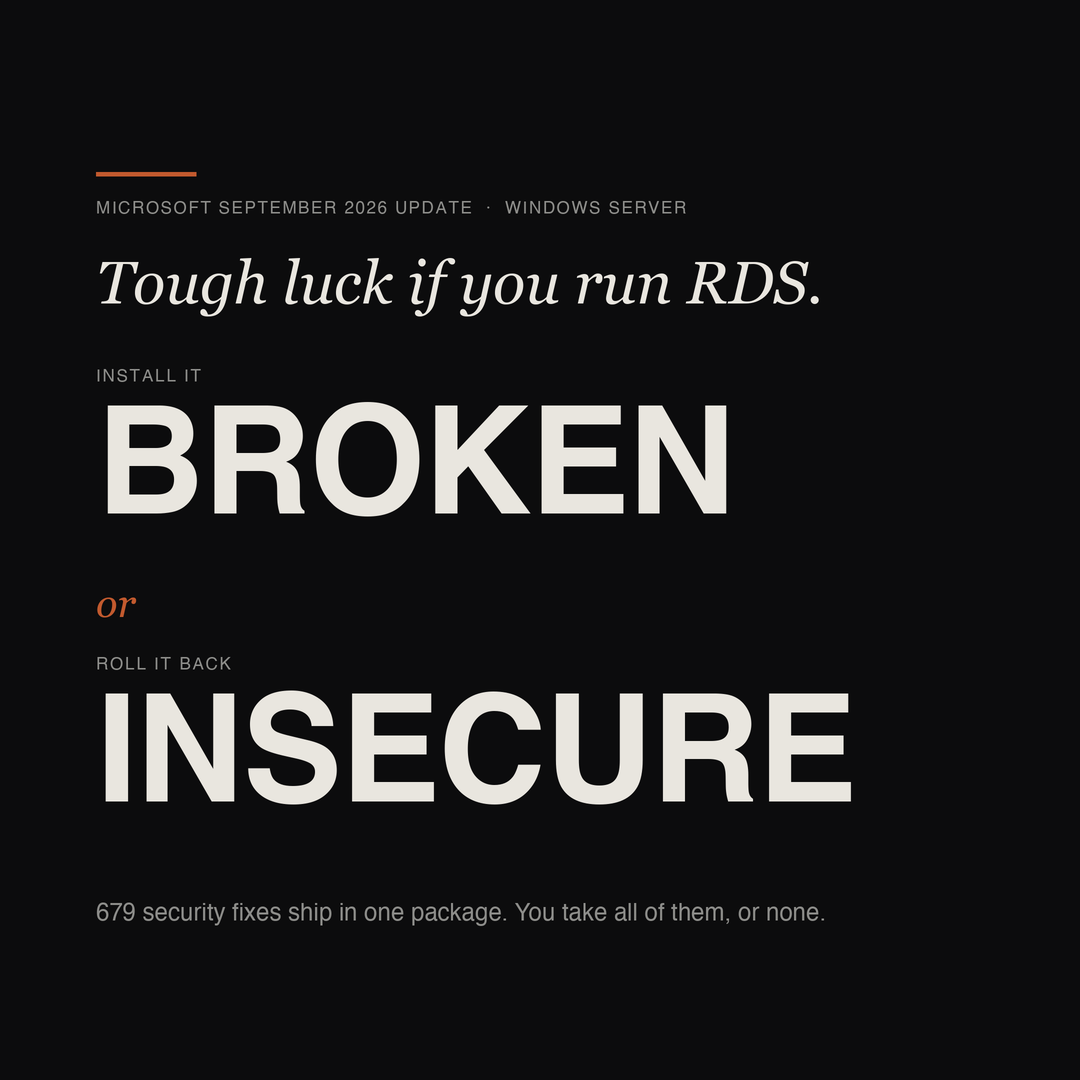
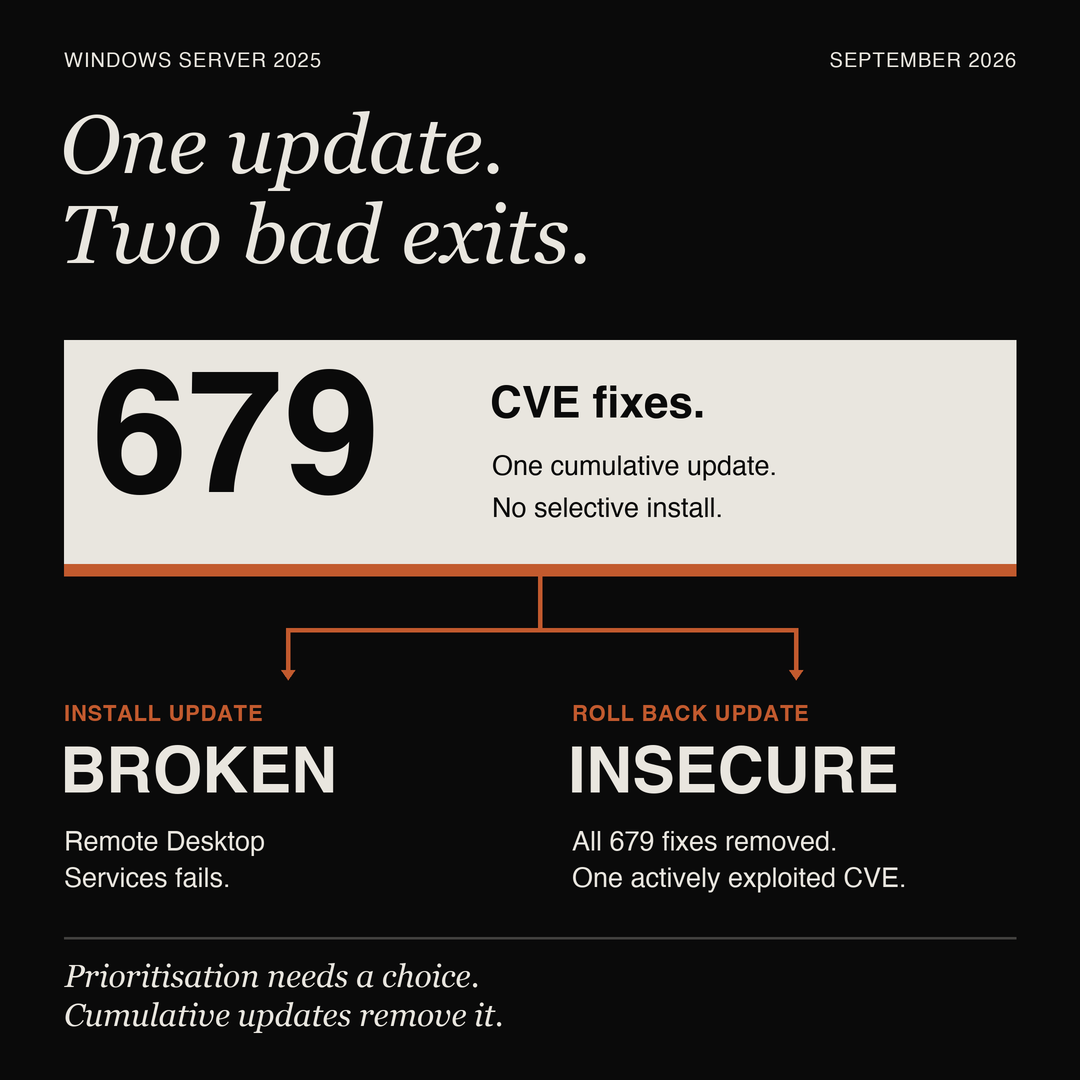
Redesign the LinkedIn card: one sealed package, two bad exits

diff --git a/social/linkedin/build/build-creative.py b/social/linkedin/build/build-creative.py
@@ -2,31 +2,38 @@
 """
 Render the LinkedIn creative for "You can't triage a bundle" at 1080x1080 PNG.
 
-Scroll-stopper, not a document. One sentence and two words, at a size that
-lands before anyone has decided whether to read. Everything that qualifies,
-sources or attributes the claim lives in the post copy and the article — an
-earlier version carried footnotes and an attribution line on the card itself
-and that is exactly the wrong instinct for a feed: nobody reads a card.
+Concept: ONE SEALED PACKAGE, TWO BAD EXITS.
 
-Deliberately absent, do not add back:
-  * asterisks and footnotes
-  * the hupfauer.one attribution line
-  * any decorative corner mark
+A single uninterrupted bone block holds 679 and states that it cannot be
+subdivided. A rust fork leaves the block and splits into two consequences drawn
+with identical weight, because neither option is the safe one. The composition
+*is* the argument: the reader should understand the trap before reading the
+thesis line at the foot.
 
-The one supporting line at the foot is the whole argument compressed, and it
-is the only thing on the card allowed to be small.
+Art direction from a senior art director (gpt-6-astra). The useful part was the
+diagnosis of the previous attempt: it named the dilemma without designing the
+mechanism that causes it, so "BROKEN / or / INSECURE" could have described any
+security trade-off, while the distinctive fact — 679 fixes welded into one
+package — had been demoted to small print.
 
-Figures are counted from Microsoft's own machine-readable release data (MSRC
-CVRF for 2026-Sep), not from press coverage:
+Rules that keep this from drifting back into a template:
+  * one dominant inverse mass (the bone block interrupting the black field)
+  * three clearly separated type scales: 172 / 82 / 64
+  * the block has NO internal division — subdividing it contradicts the story
+  * rust carries causality only (it seals the block and carries both exits),
+    roughly 1-2% of the canvas, never a large orange panel
+  * no containers around the outcomes, or it reads as a SaaS comparison table
+  * flat fills only: no gradients, shadows, bevels, grain or rounded corners
 
+All typography is composited here with the real Georgia and Helvetica faces
+rather than generated: the number is the focal point and has to be exact.
+Drawn at 2x and downsampled once.
+
+Figures counted from Microsoft's MSRC CVRF release data for 2026-Sep:
     679  CVEs whose remediation list cites KB5122871 (Windows Server 2025 only)
-      1  of those with the MSRC threat string "Exploited:Yes"
-           -> CVE-2026-81963, Windows Update Stack elevation of privilege
-
-The release-wide September 2026 count is 966-974 across all Microsoft
-products. That is NOT this number and must never be used on this card.
-
-Drawn at 2x and downsampled so the type comes out crisp.
+      1  of those with the threat string "Exploited:Yes" -> CVE-2026-81963
+The release-wide September count is 966-974 across all Microsoft products.
+That is NOT this number and must never be used on this card.
 
 Output: social/linkedin/out/creative/you-cant-triage-a-bundle.png
 """
@@ -37,67 +44,109 @@ from pathlib import Path
 
 from PIL import Image, ImageDraw, ImageFont
 
-# --- palette (matches build-quotes.py and the blog covers) ---
-INK = (12, 12, 13)
-PAPER = (233, 230, 223)
+INK = (10, 10, 10)
+BONE = (233, 230, 223)
 RUST = (194, 90, 46)
-MUTED = (141, 141, 138)
 
-S = 2  # supersample factor
+S = 2
 W = H = 1080 * S
-PAD = 96 * S
 
-SERIF_ITALIC = "/System/Library/Fonts/Supplemental/Georgia Italic.ttf"
-SANS = "/System/Library/Fonts/Helvetica.ttc"
-
-KICKER = "MICROSOFT SEPTEMBER 2026 UPDATE  ·  WINDOWS SERVER"
-HEADLINE = "Tough luck if you run RDS."
-LEFT_LABEL = "INSTALL IT"
-LEFT_VERDICT = "BROKEN"
-RIGHT_LABEL = "ROLL IT BACK"
-RIGHT_VERDICT = "INSECURE"
-FOOT = "679 security fixes ship in one package. You take all of them, or none."
+GEORGIA_I = "/System/Library/Fonts/Supplemental/Georgia Italic.ttf"
+HELV = "/System/Library/Fonts/Helvetica.ttc"
 
 OUT_DIR = Path(__file__).resolve().parent.parent / "out" / "creative"
 
 
-def track(d, xy, text, font, fill, spacing):
-    """Draw text with manual letter-spacing. Returns the end x."""
-    x, y = xy
-    for ch in text:
-        d.text((x, y), ch, font=font, fill=fill)
-        x += d.textlength(ch, font=font) + spacing
-    return x
+def f(path, size, index=0):
+    return ImageFont.truetype(path, int(size * S), index=index)
+
+
+def put(d, x, y, text, font, fill, tracking=0.0):
+    """Draw so the VISIBLE ink starts at (x, y) in 1080-space, not the font box."""
+    px, py = x * S, y * S
+    bbox = font.getbbox(text)
+    ox, oy = bbox[0], bbox[1]
+    if tracking:
+        cx = px - ox
+        for ch in text:
+            d.text((cx, py - oy), ch, font=font, fill=fill)
+            cx += d.textlength(ch, font=font) + tracking * S
+        return cx
+    d.text((px - ox, py - oy), text, font=font, fill=fill)
+    return px - ox + d.textlength(text, font=font)
+
+
+def tracked_width(d, text, font, tracking):
+    if not text:
+        return 0
+    return sum(d.textlength(c, font=font) + tracking * S for c in text) - tracking * S
 
 
 def main() -> int:
     img = Image.new("RGB", (W, H), INK)
     d = ImageDraw.Draw(img)
 
-    f_kick = ImageFont.truetype(SANS, 17 * S)
-    f_head = ImageFont.truetype(SERIF_ITALIC, 60 * S)
-    f_label = ImageFont.truetype(SANS, 17 * S)
-    f_verdict = ImageFont.truetype(SANS, 150 * S, index=1)  # Helvetica Bold
-    f_or = ImageFont.truetype(SERIF_ITALIC, 40 * S)
-    f_foot = ImageFont.truetype(SANS, 24 * S)
+    f_meta = f(HELV, 20)
+    f_head = f(GEORGIA_I, 82)
+    f_big = f(HELV, 172, index=1)
+    f_mid = f(HELV, 44, index=1)
+    f_body = f(HELV, 27)
+    f_label = f(HELV, 22, index=1)
+    f_outcome = f(HELV, 64, index=1)
+    f_foot = f(GEORGIA_I, 32)
 
-    # single rust rule — the only ornament left
-    d.rectangle([PAD, 172 * S, PAD + 100 * S, 176 * S], fill=RUST)
+    # --- metadata line ---
+    put(d, 64, 52, "WINDOWS SERVER 2025", f_meta, BONE, tracking=1.0)
+    w = tracked_width(d, "SEPTEMBER 2026", f_meta, 1.0)
+    put(d, (1016 * S - w) / S, 52, "SEPTEMBER 2026", f_meta, BONE, tracking=1.0)
 
-    track(d, (PAD, 200 * S), KICKER, f_kick, MUTED, 1.6 * S)
+    # --- proposition ---
+    put(d, 60, 111, "One update.", f_head, BONE)
+    put(d, 60, 201, "Two bad exits.", f_head, BONE)
 
-    d.text((PAD, 248 * S), HEADLINE, font=f_head, fill=PAPER)
+    # --- the sealed package: one uninterrupted mass, no internal division ---
+    d.rectangle([64 * S, 340 * S, (64 + 952) * S, (340 + 236) * S], fill=BONE)
+    put(d, 92, 369, "679", f_big, INK)
+    put(d, 490, 385, "CVE fixes.", f_mid, INK)
+    put(d, 492, 455, "One cumulative update.", f_body, INK)
+    put(d, 492, 497, "No selective install.", f_body, INK)
 
-    # --- the two outcomes, stacked so they read top-to-bottom on a phone ---
-    track(d, (PAD, 368 * S), LEFT_LABEL, f_label, MUTED, 1.8 * S)
-    track(d, (PAD, 398 * S), LEFT_VERDICT, f_verdict, PAPER, -2.0 * S)
+    # rust seal, flush with the block's lower edge
+    d.rectangle([64 * S, 564 * S, (64 + 952) * S, (564 + 12) * S], fill=RUST)
 
-    d.text((PAD, 580 * S), "or", font=f_or, fill=RUST)
+    # --- the fork: identical weight on both branches ---
+    lw = 4
+    def vline(x, y1, y2):
+        d.rectangle([x * S, y1 * S, (x + lw) * S, y2 * S], fill=RUST)
 
-    track(d, (PAD, 656 * S), RIGHT_LABEL, f_label, MUTED, 1.8 * S)
-    track(d, (PAD, 686 * S), RIGHT_VERDICT, f_verdict, PAPER, -2.0 * S)
+    def hline(x1, x2, y):
+        d.rectangle([x1 * S, y * S, (x2 + lw) * S, (y + lw) * S], fill=RUST)
 
-    d.text((PAD, 902 * S), FOOT, font=f_foot, fill=MUTED)
+    vline(538, 576, 628)
+    hline(286, 794, 628)
+    vline(286, 628, 670)
+    vline(794, 628, 670)
+    for cx in (286, 794):
+        d.polygon([((cx - 5) * S, 670 * S), ((cx + 9) * S, 670 * S),
+                   ((cx + 2) * S, 680 * S)], fill=RUST)
+
+    # --- the two consequences, paired horizontally, no containers ---
+    for x_label, x_word, label, word, l1, l2 in (
+        (64, 60, "INSTALL UPDATE", "BROKEN",
+         "Remote Desktop", "Services fails."),
+        (572, 568, "ROLL BACK UPDATE", "INSECURE",
+         "All 679 fixes removed.", "One actively exploited CVE."),
+    ):
+        put(d, x_label, 705, label, f_label, RUST, tracking=0.7)
+        put(d, x_word, 745, word, f_outcome, BONE)
+        put(d, x_label, 831, l1, f_body, BONE)
+        put(d, x_label, 867, l2, f_body, BONE)
+
+    # --- thesis ---
+    faint = tuple(round(INK[i] + (BONE[i] - INK[i]) * 0.25) for i in range(3))
+    d.rectangle([64 * S, 937 * S, (64 + 952) * S, (937 + 2) * S], fill=faint)
+    put(d, 64, 963, "Prioritisation needs a choice.", f_foot, BONE)
+    put(d, 64, 1002, "Cumulative updates remove it.", f_foot, BONE)
 
     OUT_DIR.mkdir(parents=True, exist_ok=True)
     out = OUT_DIR / "you-cant-triage-a-bundle.png"

diff --git a/social/linkedin/posts/you-cant-triage-a-bundle-01-chart.md b/social/linkedin/posts/you-cant-triage-a-bundle-01-chart.md
@@ -4,7 +4,7 @@ Square 1080×1080 card at `out/creative/you-cant-triage-a-bundle.png`, rebuilt b
 
 Named by post slug rather than folded into the flat `01–04` set, which belongs to the "which agent bricked prod?" campaign.
 
-The card carries one sentence and two words, at a size that lands before anyone decides whether to read. An earlier cut had asterisked footnotes and an attribution line on the image; that is the wrong instinct for a feed, where nobody reads a card. The caveats moved into the post body, which is where someone who has already stopped scrolling will actually take them in — and the article carries the full version.
+The card had to survive four rejected attempts: an AI illustration that said nothing, a 679-square unit chart that was too cerebral, and two typographic cuts that named the dilemma without showing what causes it. The art direction that fixed it came from gpt-6-astra, and the diagnosis was the useful part — "BROKEN or INSECURE" describes any security trade-off, while the distinctive fact, 679 fixes welded into one package, had been demoted to small print. Caveats live in the post body, not on the image.
 
 Recommended slot: Tuesday or Thursday, 08:30 CET. The first two lines carry it, before LinkedIn's "see more" cut. Copy and card open on the same sentence on purpose — don't reword one without the other.
 
@@ -36,11 +36,15 @@ Every figure comes from Microsoft's MSRC CVRF release data for 2026-Sep, not pre
 
 ## Image text
 
-Deliberately minimal — a feed card is glanced at, not read. No asterisks, no footnotes, no attribution line. Every qualification lives in the post body and the article instead.
+Concept: **one sealed package, two bad exits.** The composition is the argument — a single uninterrupted bone block holds 679 and states it cannot be subdivided, then one rust fork leaves it and splits into two consequences of identical weight. The reader should understand the trap before reading the thesis line.
 
-KICKER: MICROSOFT SEPTEMBER 2026 UPDATE · WINDOWS SERVER
-HEADLINE: Tough luck if you run RDS.
-INSTALL IT → **BROKEN**
-or
-ROLL IT BACK → **INSECURE**
-FOOT: 679 security fixes ship in one package. You take all of them, or none.
+TOP LEFT: WINDOWS SERVER 2025      TOP RIGHT: SEPTEMBER 2026
+HEADLINE: One update. / Two bad exits.
+BLOCK: **679** · CVE fixes. / One cumulative update. / No selective install.
+LEFT EXIT: INSTALL UPDATE → **BROKEN** / Remote Desktop Services fails.
+RIGHT EXIT: ROLL BACK UPDATE → **INSECURE** / All 679 fixes removed. / One actively exploited CVE.
+THESIS: Prioritisation needs a choice. / Cumulative updates remove it.
+
+No attribution line, no footnotes, no logo.
+
+Do not subdivide the block when editing — segmenting it contradicts the whole point. Keep rust to the seal and the fork only; it should read as causality, not decoration.
